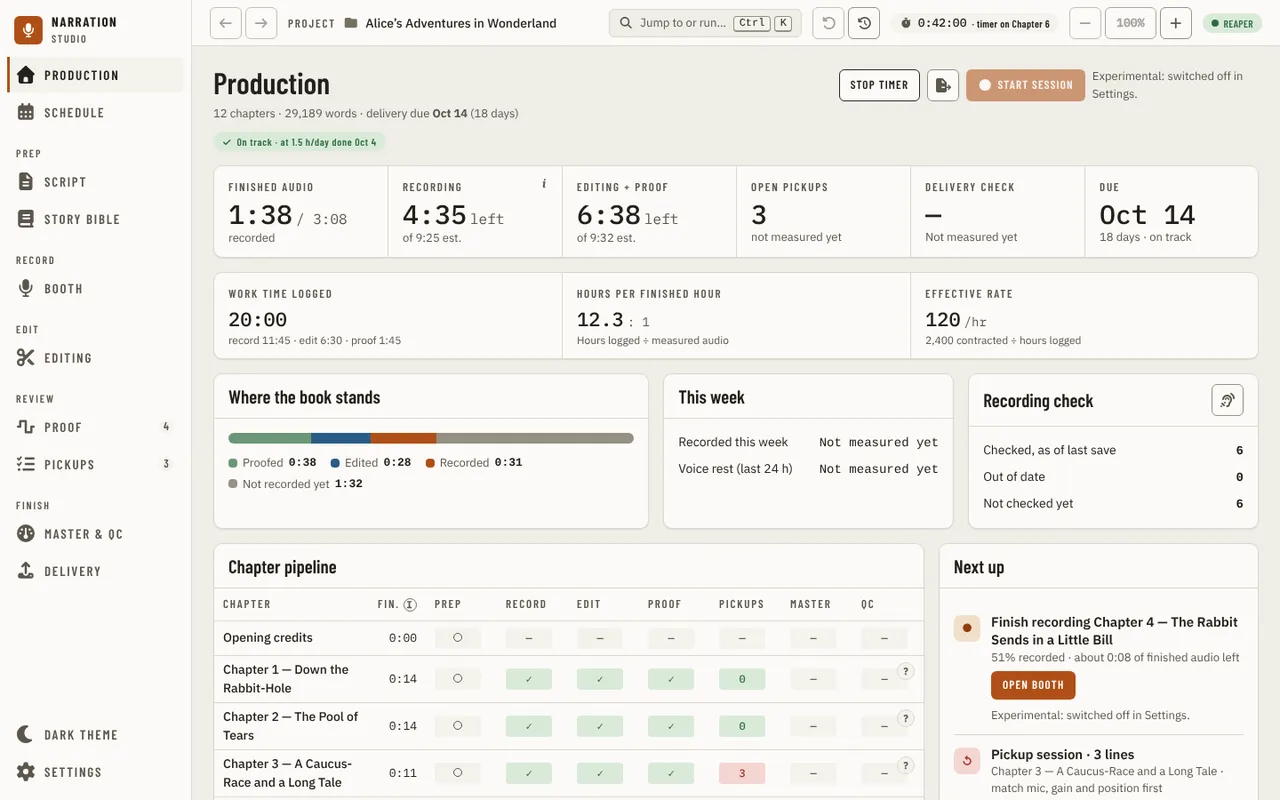
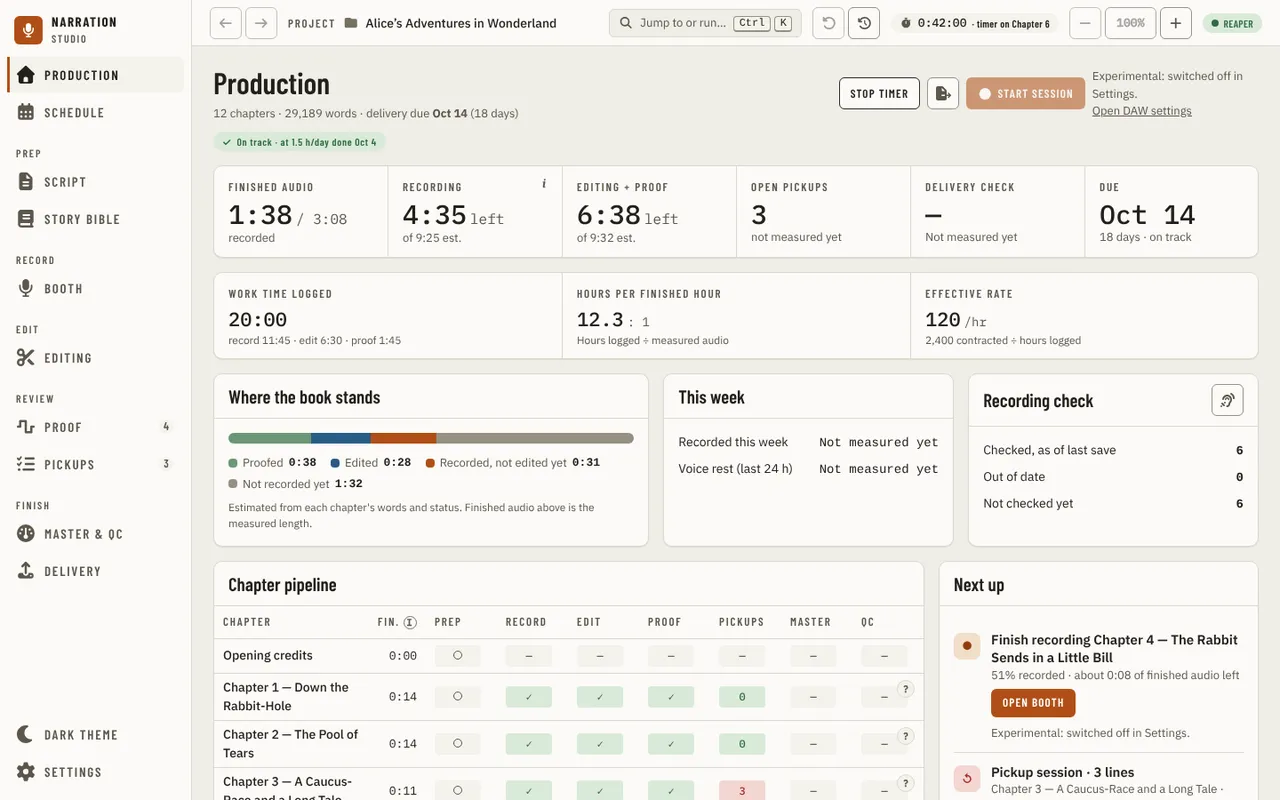
fix(ui): name the recorded measures on production and offer the recording setting
- Where the book stands calls its third share "Recorded, not edited yet" and says it is
  estimated from words and status; the Finished audio tile stays the measured length.
- The mock's manuscript summary is the sum of the chapters the page lists, so Settings and
  the Production header no longer name two word counts for one book.
- Start session, when recording is switched off, offers Open DAW settings beside the
  host's reason.

Refs #1776

Claude-Session: https://claude.ai/code/session_01N6R4eg3NitnwHYkVVC5ubg

diff --git a/apps/ui/src/api/mockHost/system.ts b/apps/ui/src/api/mockHost/system.ts
@@ -72,47 +72,55 @@ export function createSystemMock(
     transcript,
     dictionaryState,
     dawFacts,
+    manuscriptReady,
   }: {
     version: () => string;
     project: ProjectMock;
     transcript: () => TranscriptState;
     dictionaryState: () => AssetInstallState;
     dawFacts: () => { reachable: boolean; projectMatches: boolean; bridge: boolean };
+    /** Settles once the bundled manuscript has replaced the seed chapters, so the summary below counts the chapters the pages list. */
+    manuscriptReady: Promise<unknown>;
   },
 ) {
   let zoom = initial.zoom ?? 1.0;
   const bindings = {
     ready: async () => ({ apiVersion: DESKTOP_HOST_API_VERSION, diagnosticId: 'mock' }),
-    bootstrap: async () => ({
-      apiVersion: DESKTOP_HOST_API_VERSION,
-      diagnosticId: 'mock',
-      version: version(),
-      projectFolder: project.projectFolder(),
-      projectName: project.projectName(),
-      daw: project.daw(),
-      // Its own mutable state, not derived from `daw`: the real host computes this from the project's
-      // manifest link, independent of the DAW label.
-      dawFileLinked: project.dawFileLinked(),
-      // Its own mutable state, not derived from `daw`: the real host computes this from a live
-      // heartbeat. The mock never grows one on its own; `dawEngineMismatch` simulates the one case anything reads today - the engine chip's
-      // mismatch state - without pretending to a full heartbeat.
-      dawReachable: initial.dawEngineMismatch ?? dawFacts().reachable,
-      dawProjectMatches: initial.dawEngineMismatch ? false : dawFacts().projectMatches,
-      manuscript:
-        initial.noManuscript || initial.manuscriptCandidate
-          ? null
-          : {
-              id: 'alice',
-              format: 'docx',
-              sourceName: 'Alice.docx',
-              importedAt: '2026-01-01T00:00:00Z',
-              narratableWordCount: 2672,
-              narratableChapterCount: 3,
-            },
-      manuscriptCandidate: initial.manuscriptCandidate ?? null,
-      runtime: {},
-      transcript: wireClone(transcript()),
-    }),
+    bootstrap: async () => {
+      await manuscriptReady;
+      const narratable = s.chapters.filter((chapter) => chapter.contentKind !== 'reference');
+      return {
+        apiVersion: DESKTOP_HOST_API_VERSION,
+        diagnosticId: 'mock',
+        version: version(),
+        projectFolder: project.projectFolder(),
+        projectName: project.projectName(),
+        daw: project.daw(),
+        // Its own mutable state, not derived from `daw`: the real host computes this from the project's
+        // manifest link, independent of the DAW label.
+        dawFileLinked: project.dawFileLinked(),
+        // Its own mutable state, not derived from `daw`: the real host computes this from a live
+        // heartbeat. The mock never grows one on its own; `dawEngineMismatch` simulates the one case anything reads today - the engine chip's
+        // mismatch state - without pretending to a full heartbeat.
+        dawReachable: initial.dawEngineMismatch ?? dawFacts().reachable,
+        dawProjectMatches: initial.dawEngineMismatch ? false : dawFacts().projectMatches,
+        manuscript:
+          initial.noManuscript || initial.manuscriptCandidate
+            ? null
+            : {
+                id: 'alice',
+                format: 'docx',
+                sourceName: 'Alice.docx',
+                importedAt: '2026-01-01T00:00:00Z',
+                // The page's own figures (the Production header sums the same chapters), so the two never disagree.
+                narratableWordCount: narratable.reduce((sum, chapter) => sum + chapter.wordCount, 0),
+                narratableChapterCount: narratable.length,
+              },
+        manuscriptCandidate: initial.manuscriptCandidate ?? null,
+        runtime: {},
+        transcript: wireClone(transcript()),
+      };
+    },
     reportClientDiagnostic: async () => {},
     systemNotify: async () => {},
     systemLookup: async (word) => mockDictionaryLookup(word, dictionaryState()),

diff --git a/apps/ui/src/components/production/pipeline/PageHeader.tsx b/apps/ui/src/components/production/pipeline/PageHeader.tsx
@@ -21,8 +21,8 @@ type Props = {
   k: Calc;
   today: Date;
   due: Date | null;
-  /** The record capability: Start session is disabled with its own reason beside it. */
-  record: { ok: boolean; reason: string };
+  /** The record capability: Start session is disabled with its own reason beside it, and a way to Settings when Settings is what fixes it. */
+  record: { ok: boolean; reason: string; inSettings?: boolean };
   timerRunning: boolean;
   stopping?: boolean;
   onStopTimer: () => void;
@@ -30,10 +30,26 @@ type Props = {
   /** Opens the status report dialog (SN-P622). */
   onExport: () => void;
   onOpenSchedule: () => void;
+  /** Opens Settings' DAW section, where recording is switched on. */
+  onOpenSettings?: () => void;
 };
 
 /** The Production title, the book's figures and due date in their tone, the verdict, and the page's actions (the mock's `phead`). */
-export function PageHeader({ chapters, words, k, today, due, record, timerRunning, stopping, onStopTimer, onStartSession, onExport, onOpenSchedule }: Props) {
+export function PageHeader({
+  chapters,
+  words,
+  k,
+  today,
+  due,
+  record,
+  timerRunning,
+  stopping,
+  onStopTimer,
+  onStartSession,
+  onExport,
+  onOpenSchedule,
+  onOpenSettings,
+}: Props) {
   const tone = deadlineTone(k);
   const mark = TONE_MARK[tone];
   const days = k.daysLeft === null ? null : `${Math.abs(k.daysLeft)} ${Math.abs(k.daysLeft) === 1 ? 'day' : 'days'}`;
@@ -84,8 +100,13 @@ export function PageHeader({ chapters, words, k, today, due, record, timerRunnin
           Start session
         </Button>
         {!record.ok && (
-          <span id="start-session-reason" className="max-w-[24ch] text-[0.8125rem] text-[var(--text-muted)]">
+          <span id="start-session-reason" className="flex max-w-[24ch] flex-col items-start text-[0.8125rem] text-[var(--text-muted)]">
             {record.reason}
+            {record.inSettings && onOpenSettings && (
+              <Button variant="link" onClick={onOpenSettings}>
+                Open DAW settings
+              </Button>
+            )}
           </span>
         )}
       </div>

diff --git a/apps/ui/src/components/production/ProductionPage.tsx b/apps/ui/src/components/production/ProductionPage.tsx
@@ -303,7 +303,12 @@ export function ProductionPage({
   }
 
   const record = caps
-    ? { ok: Boolean(caps.capabilities.record?.available), reason: caps.capabilities.record?.message ?? '' }
+    ? {
+        ok: Boolean(caps.capabilities.record?.available),
+        reason: caps.capabilities.record?.message ?? '',
+        // Switched off is the one refusal the narrator fixes in Settings; the others (not connected, not answering) are fixed in the DAW.
+        inSettings: caps.capabilities.record?.reason === 'experimental_off' || caps.capabilities.record?.reason === 'turned_off',
+      }
     : { ok: false, reason: 'Checking the audio engine…' };
   const due = plan?.deadline ? parseIso(plan.deadline) : null;
   const k = calc(scheduleChapters(narrated), today, due, openPickups);
@@ -378,6 +383,7 @@ export function ProductionPage({
         onStartSession={() => goToBooth(recordingChapter?.id)}
         onExport={() => openReportDialog({ projectName: data.projectName, asOf: fmtD(today) })}
         onOpenSchedule={() => go('/schedule')}
+        onOpenSettings={() => go('/settings#daw')}
       />
       {manuscriptImport.dialogs}
       {manuscriptImport.creditsBanner}

diff --git a/apps/ui/src/components/settings/ManuscriptSection.test.tsx b/apps/ui/src/components/settings/ManuscriptSection.test.tsx
@@ -53,8 +53,10 @@ describe('Settings > Manuscript', () => {
 
   it('says when the manuscript was imported and how many words it has, as the mock does, and Replace is the danger button', async () => {
     await renderManuscript();
-    // The mock's "Imported Sep 12 · 29,222 words": a short day, not the stored timestamp, and the narratable word count.
-    expect(await screen.findByText(/^Imported [A-Z][a-z]{2} \d{1,2} · 2,672 words$/)).toBeTruthy();
+    // The mock's "Imported Sep 12 · 29,222 words": a short day, not the stored timestamp, and the narratable word count. It is the
+    // figure Production's header shows for the same book, so the two pages never name two totals.
+    const words = (await createMockApi({}, {}).manuscriptChapters()).reduce((sum, chapter) => sum + chapter.wordCount, 0);
+    expect(await screen.findByText(new RegExp(`^Imported [A-Z][a-z]{2} \\d{1,2} · ${words.toLocaleString('en-US')} words$`))).toBeTruthy();
     expect(screen.queryByText(/T00:00:00Z/)).toBeNull();
     expect(screen.getByRole('button', { name: 'Replace manuscript…' }).className).toMatch(/danger/);
   });

diff --git a/apps/ui/src/components/production/pipeline/pipeline.test.tsx b/apps/ui/src/components/production/pipeline/pipeline.test.tsx
@@ -249,6 +249,18 @@ describe('PageHeader', () => {
     expect(screen.getByText('No recorder is connected.')).toBeTruthy();
   });
 
+  it('offers the settings that switch recording on when that is the reason Start session is off', async () => {
+    const onOpenSettings = vi.fn();
+    header({ record: { ok: false, reason: 'Experimental: switched off in Settings.', inSettings: true }, onOpenSettings });
+    await userEvent.click(screen.getByRole('button', { name: 'Open DAW settings' }));
+    expect(onOpenSettings).toHaveBeenCalledOnce();
+  });
+
+  it('offers no settings link for a reason Settings cannot fix', () => {
+    header({ record: { ok: false, reason: 'No recorder is connected.' }, onOpenSettings: vi.fn() });
+    expect(screen.queryByRole('button', { name: 'Open DAW settings' })).toBeNull();
+  });
+
   it('shows Stop timer only while a timer runs', async () => {
     const h = header({ timerRunning: true });
     await userEvent.click(screen.getByRole('button', { name: 'Stop timer' }));

diff --git a/apps/ui/src/components/production/overview/overview.test.tsx b/apps/ui/src/components/production/overview/overview.test.tsx
@@ -130,6 +130,13 @@ describe('StageBar', () => {
     expect(screen.queryByText(/Delivered/)).toBeNull();
   });
 
+  it('names its recorded share as not yet edited and says it is an estimate, not the measured length of the Finished audio tile', () => {
+    const { segments } = overviewFor(MID_BOOK);
+    view(<StageBar segments={segments} wph={9300} />);
+    expect(screen.getByText(/Recorded, not edited yet/)).toBeTruthy();
+    expect(screen.getByText(/Estimated from each chapter's words and status\. Finished audio above is the measured length\./)).toBeTruthy();
+  });
+
   it('draws an empty bar for a book with no words', () => {
     view(<StageBar segments={overviewFor([]).segments} wph={9300} />);
     expect(screen.getByRole('img', { name: 'Book progress by stage' }).querySelectorAll('i')).toHaveLength(4);

diff --git a/apps/ui/src/components/production/overview/overviewFigures.ts b/apps/ui/src/components/production/overview/overviewFigures.ts
@@ -159,7 +159,7 @@ export function stageSegments(chapters: readonly ProductionChapter[], wph: numbe
   const parts: Array<[StageSegment['key'], string, number]> = [
     ['proofed', 'Proofed', proofed],
     ['edited', 'Edited', edited],
-    ['recorded', 'Recorded', recorded],
+    ['recorded', 'Recorded, not edited yet', recorded],
     ['unrecorded', 'Not recorded yet', total - proofed - edited - recorded],
   ];
   return parts.map(([key, label, words]) => ({ key, label, words, hours: words / wph, percent: total > 0 ? (words / total) * 100 : 0 }));

diff --git a/apps/ui/src/api/mockApi.ts b/apps/ui/src/api/mockApi.ts
@@ -314,6 +314,7 @@ export function createMockApi(
     transcript: proofing.transcript,
     dictionaryState: assets.dictionaryState,
     dawFacts: () => dawControl.facts(),
+    manuscriptReady,
   });
   // The mock DAW's undo history: the edits below leave their labels on it (recordingUndo), and DawLastAction and DawUndoLast read it.
   const undoHistory = new MockUndoHistory();

diff --git a/apps/ui/src/components/production/overview/StageBar.tsx b/apps/ui/src/components/production/overview/StageBar.tsx
@@ -33,6 +33,9 @@ export function StageBar({ segments, wph }: { segments: readonly StageSegment[];
           </li>
         ))}
       </ul>
+      <p className="mt-2 text-[0.75rem] text-[var(--text-muted)]">
+        Estimated from each chapter's words and status. Finished audio above is the measured length.
+      </p>
     </Panel>
   );
 }

diff --git a/docs/guides/using-the-app/production.md b/docs/guides/using-the-app/production.md
@@ -16,7 +16,8 @@ due 14 Oct (18 days)"), with the due date's tone as a word and a mark, not only 
 under it is the verdict for the due date (on track, tight or behind); it opens
 [Schedule](schedule.md). **Export status report** (the export icon) opens the
 [status report](#status-report), and **Start session** opens the [Booth](booth.md) on the chapter
-being recorded, or says why it cannot when the audio engine cannot record.
+being recorded, or says why it cannot when the audio engine cannot record. When recording is
+switched off, **Open DAW settings** beside the reason opens the section that turns it on.
 
 With no manuscript imported yet, the page is the import: **Import manuscript** opens the file
 picker (see [Importing the manuscript](#importing-the-manuscript)), and the calendar icon opens
@@ -51,7 +52,9 @@ The six figures are one card; each opens the page it counts.
   yet" until the host reports a check per chapter.
 - **Due**: the due date and what the pace says about it. It opens [Schedule](schedule.md).
 
-Under the figures, **Where the book stands** splits the book's finished hours by stage, **This
+Under the figures, **Where the book stands** splits the book's finished hours by stage, estimated
+from each chapter's words and status (its **Recorded, not edited yet** share is the chapters
+recorded but not edited; **Finished audio** above is the measured length), **This
 week** says how much was recorded this week and in the last 24 hours (from the built-in recorder's
 take log), and **Recording check** counts the chapters checked as of the last save, out of date,
 and never checked; its icon opens **Check recordings** with the out-of-date and unchecked chapters
